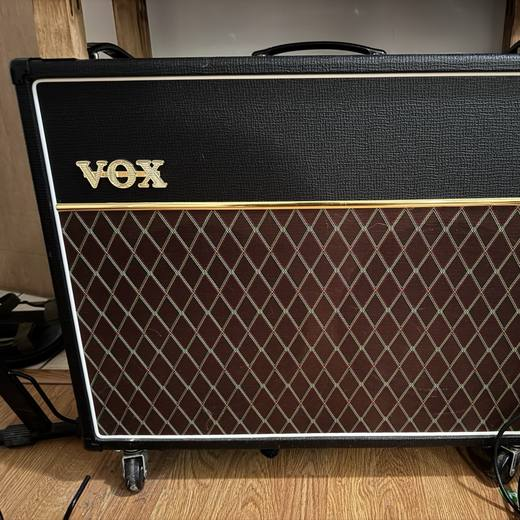
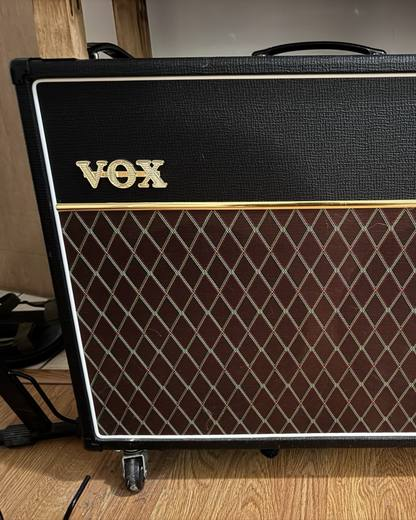
Make item card photos 4:5 portrait; re-crop amp photos

diff --git a/index.html b/index.html
@@ -77,7 +77,7 @@ h1 { font-family: var(--display); font-weight: 800; font-size: clamp(2.4rem, 7vw
 .grid { display: grid; grid-template-columns: repeat(auto-fill, minmax(min(100%, 250px), 1fr)); gap: 18px; }
 
 .item { background: var(--surface); border: 1px solid var(--line); border-radius: 10px; overflow: hidden; display: flex; flex-direction: column; min-width: 0; }
-.photo { position: relative; display: block; aspect-ratio: 1; max-width: 100%; background: var(--chip); }
+.photo { position: relative; display: block; aspect-ratio: 4 / 5; max-width: 100%; background: var(--chip); }
 .photo img { width: 100%; height: 100%; object-fit: cover; display: block; transition: transform .3s ease; }
 .item:hover .photo img { transform: scale(1.03); }
 @media (prefers-reduced-motion: reduce) { .photo img { transition: none; } .item:hover .photo img { transform: none; } }
@@ -110,7 +110,7 @@ footer p { margin: 0; max-width: 60ch; }
   <div class="intro">
   <p class="eyebrow"><span class="led" aria-hidden="true"></span>Selling gear to get Max in the clear</p>
   <h1>Max's Surgery Gear Sale</h1>
-  <div class="lede"><p>A few years ago, Max came into our lives and quickly became an important member of our family. At &gt; 25 lbs, and a purr louder than a jet engine, he has many names: Pooshkin, Plumpy, Big Boy.</p><p>This summer, a small cut appeared on his foot and strangely did not heal. After seeing multiple vets, the diagnosis was an aggressive form of cancer and the only treatment is to amputate his whole leg.</p><p>Of course, this is extremely expensive. With my current financial situation I don&#x27;t feel right asking for donations, as there are much more deserving people and causes. However, can I interest you in some music gear? Some of these items I&#x27;ve built myself, some I&#x27;m just reselling. I figure I can feed two birds with one scone here and raise a few dollars to offset the cost of this surgery and clean out some of the things in my studio.</p><p>I&#x27;d love to avoid the fees of Reverb, so if you&#x27;re interested in anything, DM me on Instagram (<a href="https://instagram.com/quirkey" target="_blank" rel="noopener">@quirkey</a>) or email me at <a href="mailto:aaron@quirkey.com">aaron@quirkey.com</a> and we can arrange payment through Venmo or paypal.</p><p>If you&#x27;re local to Kingston, I&#x27;m happy to set up pickup or delivery, too!</p></div>
+  <div class="lede"><p>A few years ago, Max came into our lives and quickly became an important member of our family. At &gt; 25 lbs, and a purr louder than a jet engine, he has many names: Pooshkin, Plumpy, Big Boy.</p><p>This summer, a small cut appeared on his foot and strangely did not heal. After seeing multiple vets, the diagnosis was an aggressive form of cancer and the only treatment is to amputate his whole leg.</p><p>Of course, this is extremely expensive. With my current financial situation I don&#x27;t feel right asking for donations, as there are much more deserving people and causes. However, can I interest you in some music gear? Some of these items I&#x27;ve built myself, some I&#x27;m just reselling. I figure I can feed two birds with one scone here and raise a few dollars to offset the cost of this surgery and clean out some of the things in my studio.</p><p>I&#x27;d love to avoid the fees of Reverb, so if you&#x27;re interested in anything, DM me on Instagram (<a href="https://instagram.com/quirkey" target="_blank" rel="noopener">@quirkey</a>) or email me at <a href="mailto:aaron@quirkey.com">aaron@quirkey.com</a> and we can arrange payment through Venmo or paypal.</p><p>Also happy to take commissions for new guitars and pedals.</p><p>If you&#x27;re local to Kingston, I&#x27;m happy to set up pickup or delivery, too.</p></div>
   <ul class="stats">
     <li>Ships from Kingston, NY</li>
     <li><a href="https://reverb.com/shop/quint-guitars" target="_blank" rel="noopener">Full shop on Reverb &#8599;</a></li>
@@ -132,7 +132,7 @@ footer p { margin: 0; max-width: 60ch; }
     </header>
     <div class="grid">
       <article class="item">
-        <a class="photo" href="https://quintguitars.com/guitars/jazzcaster-03/" target="_blank" rel="noopener" aria-label="Jazzcaster #03, Black over Sunburst on quintguitars.com"><img src="img/jazzcaster03.jpg?v=ea7ea2d8" alt="Jazzcaster #03, Black over Sunburst" loading="lazy" width="520" height="520"></a>
+        <a class="photo" href="https://quintguitars.com/guitars/jazzcaster-03/" target="_blank" rel="noopener" aria-label="Jazzcaster #03, Black over Sunburst on quintguitars.com"><img src="img/jazzcaster03.jpg?v=ea7ea2d8" alt="Jazzcaster #03, Black over Sunburst" loading="lazy" width="416" height="520"></a>
         <div class="body">
           <div class="row"><h3>Jazzcaster #03, Black over Sunburst</h3><p class="price">$1,200</p></div>
           <p class="desc">Relic&#x27;d black-over-sunburst nitro finish with Gemini Suprocaster and goldfoil pickups.</p>
@@ -141,7 +141,7 @@ footer p { margin: 0; max-width: 60ch; }
         </div>
       </article>
       <article class="item">
-        <a class="photo" href="https://reverb.com/item/81891009-quint-guitars-esquire-04-2023-daphne-blue" target="_blank" rel="noopener" aria-label="Esquire #04, Daphne Blue on Reverb"><img src="img/esquire.jpg?v=da5b889a" alt="Esquire #04, Daphne Blue" loading="lazy" width="520" height="520"></a>
+        <a class="photo" href="https://reverb.com/item/81891009-quint-guitars-esquire-04-2023-daphne-blue" target="_blank" rel="noopener" aria-label="Esquire #04, Daphne Blue on Reverb"><img src="img/esquire.jpg?v=da5b889a" alt="Esquire #04, Daphne Blue" loading="lazy" width="416" height="520"></a>
         <div class="body">
           <div class="row"><h3>Esquire #04, Daphne Blue</h3><p class="price">$900</p></div>
           <p class="desc">The first Quint partscaster I put up for sale, built with premium parts and a full setup.</p>
@@ -150,7 +150,7 @@ footer p { margin: 0; max-width: 60ch; }
         </div>
       </article>
       <article class="item">
-        <a class="photo" href="https://reverb.com/item/91230133-quint-guitars-07-jazzcaster-fiesta-red" target="_blank" rel="noopener" aria-label="Jazzcaster #07, Fiesta Red on Reverb"><img src="img/jazzcaster.jpg?v=45e9303d" alt="Jazzcaster #07, Fiesta Red" loading="lazy" width="520" height="520"></a>
+        <a class="photo" href="https://reverb.com/item/91230133-quint-guitars-07-jazzcaster-fiesta-red" target="_blank" rel="noopener" aria-label="Jazzcaster #07, Fiesta Red on Reverb"><img src="img/jazzcaster.jpg?v=45e9303d" alt="Jazzcaster #07, Fiesta Red" loading="lazy" width="416" height="520"></a>
         <div class="body">
           <div class="row"><h3>Jazzcaster #07, Fiesta Red</h3><p class="price">$825</p></div>
           <p class="desc">A hand-finished partscaster with premium parts and a full setup.</p>
@@ -159,7 +159,7 @@ footer p { margin: 0; max-width: 60ch; }
         </div>
       </article>
       <article class="item">
-        <div class="photo"><img src="img/american-strat.jpg?v=dc54cc6c" alt="Fender American Performer Strat" loading="lazy" width="520" height="520"></div>
+        <div class="photo"><img src="img/american-strat.jpg?v=dc54cc6c" alt="Fender American Performer Strat" loading="lazy" width="416" height="520"></div>
         <div class="body">
           <div class="row"><h3>Fender American Performer Strat</h3><p class="price">$700</p></div>
           <p class="desc">A US-made Strat in black with a maple neck and Fender&#x27;s Tex-Mex single-coils. Great condition with a nice neck and classic sound.</p>
@@ -168,7 +168,7 @@ footer p { margin: 0; max-width: 60ch; }
         </div>
       </article>
       <article class="item">
-        <div class="photo"><img src="img/lp-jr.jpg?v=09e1ac2d" alt="Epiphone Les Paul Junior" loading="lazy" width="520" height="520"></div>
+        <div class="photo"><img src="img/lp-jr.jpg?v=09e1ac2d" alt="Epiphone Les Paul Junior" loading="lazy" width="416" height="520"></div>
         <div class="body">
           <div class="row"><h3>Epiphone Les Paul Junior</h3><p class="price">$250</p></div>
           <p class="desc">A no-frills single-pickup slab body in vintage sunburst. Stock parts but feels great. SUPER hot humbucker pickup (~11K!)</p>
@@ -184,7 +184,7 @@ footer p { margin: 0; max-width: 60ch; }
     </header>
     <div class="grid">
       <article class="item">
-        <div class="photo"><img src="img/vox-ac30.jpg?v=fbb70be0" alt="Vox AC30" loading="lazy" width="520" height="520"></div>
+        <div class="photo"><img src="img/vox-ac30.jpg?v=073f7dbe" alt="Vox AC30" loading="lazy" width="416" height="520"></div>
         <div class="body">
           <div class="row"><h3>Vox AC30</h3><p class="price">$400</p></div>
           <p class="desc">Classic 30-watt British combo. I bought this already modified. The reverb tank has been removed and casters were added.</p>
@@ -193,7 +193,7 @@ footer p { margin: 0; max-width: 60ch; }
         </div>
       </article>
       <article class="item">
-        <div class="photo"><img src="img/fender-hrd.jpg?v=8bfcb2c1" alt="Fender Hot Rod Deluxe" loading="lazy" width="520" height="520"></div>
+        <div class="photo"><img src="img/fender-hrd.jpg?v=3653b1dd" alt="Fender Hot Rod Deluxe" loading="lazy" width="416" height="520"></div>
         <div class="body">
           <div class="row"><h3>Fender Hot Rod Deluxe</h3><p class="price">$300</p></div>
           <p class="desc">A 40-watt all-tube combo with clean, drive and more-drive channels plus spring reverb. Very very loud. Comes with a simple attenuator knob to allow for playing at home volumes.</p>
@@ -209,7 +209,7 @@ footer p { margin: 0; max-width: 60ch; }
     </header>
     <div class="grid">
       <article class="item">
-        <a class="photo" href="https://reverb.com/item/97549430-quint-guitars-drive-trem-2026-black-woodgrain" target="_blank" rel="noopener" aria-label="Drive Trem on Reverb"><img src="img/drivetrem.jpg?v=e7cca019" alt="Drive Trem" loading="lazy" width="520" height="520"><span class="badge">Original design</span></a>
+        <a class="photo" href="https://reverb.com/item/97549430-quint-guitars-drive-trem-2026-black-woodgrain" target="_blank" rel="noopener" aria-label="Drive Trem on Reverb"><img src="img/drivetrem.jpg?v=e7cca019" alt="Drive Trem" loading="lazy" width="416" height="520"><span class="badge">Original design</span></a>
         <div class="body">
           <div class="row"><h3>Drive Trem</h3><p class="price">$175</p></div>
           <p class="desc">My own design: a JFET overdrive and a tremolo in one enclosure.</p>
@@ -218,7 +218,7 @@ footer p { margin: 0; max-width: 60ch; }
         </div>
       </article>
       <article class="item">
-        <a class="photo" href="https://reverb.com/item/99865222-quint-guitars-clone-lab-data-corrupter" target="_blank" rel="noopener" aria-label="Data Corrupter on Reverb"><img src="img/datacorrupter.jpg?v=54607f15" alt="Data Corrupter" loading="lazy" width="520" height="520"></a>
+        <a class="photo" href="https://reverb.com/item/99865222-quint-guitars-clone-lab-data-corrupter" target="_blank" rel="noopener" aria-label="Data Corrupter on Reverb"><img src="img/datacorrupter.jpg?v=54607f15" alt="Data Corrupter" loading="lazy" width="416" height="520"></a>
         <div class="body">
           <div class="row"><h3>Data Corrupter</h3><p class="price">$175</p></div>
           <p class="desc">Clone of the EQD Data Corrupter, a PLL square-wave fuzz that tracks into synth chaos.</p>
@@ -227,7 +227,7 @@ footer p { margin: 0; max-width: 60ch; }
         </div>
       </article>
       <article class="item">
-        <a class="photo" href="https://reverb.com/item/99863494-quint-guitars-clone-lab-riptide" target="_blank" rel="noopener" aria-label="Riptide on Reverb"><img src="img/riptide.jpg?v=e5d6c412" alt="Riptide" loading="lazy" width="520" height="520"></a>
+        <a class="photo" href="https://reverb.com/item/99863494-quint-guitars-clone-lab-riptide" target="_blank" rel="noopener" aria-label="Riptide on Reverb"><img src="img/riptide.jpg?v=e5d6c412" alt="Riptide" loading="lazy" width="416" height="520"></a>
         <div class="body">
           <div class="row"><h3>Riptide</h3><p class="price">$175</p></div>
           <p class="desc">Clone of the Scientific Guitarist Riptide, with a real Accutronics spring tank inside.</p>
@@ -236,7 +236,7 @@ footer p { margin: 0; max-width: 60ch; }
         </div>
       </article>
       <article class="item">
-        <a class="photo" href="https://reverb.com/item/99862807-quint-guitars-clone-lab-organizer" target="_blank" rel="noopener" aria-label="Organizer on Reverb"><img src="img/organizer.jpg?v=1cb15846" alt="Organizer" loading="lazy" width="520" height="520"></a>
+        <a class="photo" href="https://reverb.com/item/99862807-quint-guitars-clone-lab-organizer" target="_blank" rel="noopener" aria-label="Organizer on Reverb"><img src="img/organizer.jpg?v=1cb15846" alt="Organizer" loading="lazy" width="416" height="520"></a>
         <div class="body">
           <div class="row"><h3>Organizer</h3><p class="price">$120</p></div>
           <p class="desc">Clone of the EQD Organizer, an FV-1 organ emulator with pitch-shifted voices.</p>
@@ -245,7 +245,7 @@ footer p { margin: 0; max-width: 60ch; }
         </div>
       </article>
       <article class="item">
-        <a class="photo" href="https://reverb.com/item/99862711-quint-guitars-clone-lab-warlow" target="_blank" rel="noopener" aria-label="Warlow on Reverb"><img src="img/warlow.jpg?v=e53e7f1d" alt="Warlow" loading="lazy" width="520" height="520"></a>
+        <a class="photo" href="https://reverb.com/item/99862711-quint-guitars-clone-lab-warlow" target="_blank" rel="noopener" aria-label="Warlow on Reverb"><img src="img/warlow.jpg?v=e53e7f1d" alt="Warlow" loading="lazy" width="416" height="520"></a>
         <div class="body">
           <div class="row"><h3>Warlow</h3><p class="price">$120</p></div>
           <p class="desc">Clone of the JPTR FX Warlow: an op-amp Big Muff with extra gain and a 3-way tone switch.</p>
@@ -254,7 +254,7 @@ footer p { margin: 0; max-width: 60ch; }
         </div>
       </article>
       <article class="item">
-        <a class="photo" href="https://reverb.com/item/99862890-quint-guitars-clone-lab-fuzz-bender" target="_blank" rel="noopener" aria-label="Fuzz Bender on Reverb"><img src="img/fuzzbender.jpg?v=6b9b4f5b" alt="Fuzz Bender" loading="lazy" width="520" height="520"></a>
+        <a class="photo" href="https://reverb.com/item/99862890-quint-guitars-clone-lab-fuzz-bender" target="_blank" rel="noopener" aria-label="Fuzz Bender on Reverb"><img src="img/fuzzbender.jpg?v=6b9b4f5b" alt="Fuzz Bender" loading="lazy" width="416" height="520"></a>
         <div class="body">
           <div class="row"><h3>Fuzz Bender</h3><p class="price">$100</p></div>
           <p class="desc">Clone of the Keeley Fuzz Bender, a Tone Bender circuit mixing silicon and germanium.</p>
@@ -263,7 +263,7 @@ footer p { margin: 0; max-width: 60ch; }
         </div>
       </article>
       <article class="item">
-        <a class="photo" href="https://reverb.com/item/99868106-quint-guitars-clone-lab-prince-of-tone" target="_blank" rel="noopener" aria-label="Prince of Tone on Reverb"><img src="img/prince.jpg?v=d217eb04" alt="Prince of Tone" loading="lazy" width="520" height="520"></a>
+        <a class="photo" href="https://reverb.com/item/99868106-quint-guitars-clone-lab-prince-of-tone" target="_blank" rel="noopener" aria-label="Prince of Tone on Reverb"><img src="img/prince.jpg?v=d217eb04" alt="Prince of Tone" loading="lazy" width="416" height="520"></a>
         <div class="body">
           <div class="row"><h3>Prince of Tone</h3><p class="price">$90</p></div>
           <p class="desc">Clone of the Analogman Prince of Tone, with a 3-way gain switch in a compact 1590B.</p>
@@ -272,7 +272,7 @@ footer p { margin: 0; max-width: 60ch; }
         </div>
       </article>
       <article class="item">
-        <a class="photo" href="https://reverb.com/item/94491814-quint-guitars-clone-lab-breakup" target="_blank" rel="noopener" aria-label="Breakup on Reverb"><img src="img/breakup.jpg?v=7c05527c" alt="Breakup" loading="lazy" width="520" height="520"></a>
+        <a class="photo" href="https://reverb.com/item/94491814-quint-guitars-clone-lab-breakup" target="_blank" rel="noopener" aria-label="Breakup on Reverb"><img src="img/breakup.jpg?v=7c05527c" alt="Breakup" loading="lazy" width="416" height="520"></a>
         <div class="body">
           <div class="row"><h3>Breakup</h3><p class="price">$90</p></div>
           <p class="desc">Clone of the Danelectro Breakdown, with a smooth pot in place of the rotary switch.</p>
@@ -281,7 +281,7 @@ footer p { margin: 0; max-width: 60ch; }
         </div>
       </article>
       <article class="item">
-        <a class="photo" href="https://reverb.com/item/99862655-quint-guitars-clone-lab-levitation" target="_blank" rel="noopener" aria-label="Levitation on Reverb"><img src="img/levitation.jpg?v=bf38acf2" alt="Levitation" loading="lazy" width="520" height="520"></a>
+        <a class="photo" href="https://reverb.com/item/99862655-quint-guitars-clone-lab-levitation" target="_blank" rel="noopener" aria-label="Levitation on Reverb"><img src="img/levitation.jpg?v=bf38acf2" alt="Levitation" loading="lazy" width="416" height="520"></a>
         <div class="body">
           <div class="row"><h3>Levitation</h3><p class="price">$90</p></div>
           <p class="desc">Clone of the EQD Levitation, an ambient reverb built on the Belton brick.</p>

diff --git a/template.html b/template.html
@@ -77,7 +77,7 @@ h1 { font-family: var(--display); font-weight: 800; font-size: clamp(2.4rem, 7vw
 .grid { display: grid; grid-template-columns: repeat(auto-fill, minmax(min(100%, 250px), 1fr)); gap: 18px; }
 
 .item { background: var(--surface); border: 1px solid var(--line); border-radius: 10px; overflow: hidden; display: flex; flex-direction: column; min-width: 0; }
-.photo { position: relative; display: block; aspect-ratio: 1; max-width: 100%; background: var(--chip); }
+.photo { position: relative; display: block; aspect-ratio: 4 / 5; max-width: 100%; background: var(--chip); }
 .photo img { width: 100%; height: 100%; object-fit: cover; display: block; transition: transform .3s ease; }
 .item:hover .photo img { transform: scale(1.03); }
 @media (prefers-reduced-motion: reduce) { .photo img { transition: none; } .item:hover .photo img { transform: none; } }

diff --git a/build.py b/build.py
@@ -109,7 +109,7 @@ count = sum(len(s['items']) + len(extras(s)) for s in sections)
 def card(it):
     name = it['name']
     badge = '<span class="badge">Original design</span>' if it.get('original') else ''
-    img = f'<img src="{photos[it['photo']]}" alt="{e(name)}" loading="lazy" width="520" height="520">{badge}'
+    img = f'<img src="{photos[it['photo']]}" alt="{e(name)}" loading="lazy" width="416" height="520">{badge}'
     if it.get('reverb') or it.get('url'):
         href = R + it['reverb'] if it.get('reverb') else it['url']
         site = 'Reverb' if it.get('reverb') else re.sub(r'^www\.', '', re.sub(r'^\w+://', '', href).split('/')[0])

diff --git a/CLAUDE.md b/CLAUDE.md
@@ -20,7 +20,7 @@ A one-page static site listing gear from Aaron's Quint Guitars Reverb shop (http
 GitHub Pages from the `main` branch root of https://github.com/quirkey/max-gear-sale. Live at https://quirkey.github.io/max-gear-sale/. To update: edit `items.yaml`, `python3 build.py`, commit, `git push`. Pages rebuilds in about a minute.
 
 ## Content decisions (from Aaron)
-- Categories: Guitars, Amps, Pedals. (Amps added 2026-10-09: Vox AC30 $400 and Fender Hot Rod Deluxe $300, photos from `~/Downloads/vox-ac-30.jpeg` (square crop, shifted left so the logo isn't clipped) and `fender-amp-front.jpeg`. Neither is listed anywhere, so their buttons email Aaron.) (The Pedal-building tools section, 3 drill templates, was removed on 2026-10-02 at Aaron's request; their photos were deleted on 2026-10-09 and are in git history if needed.) Each card has a photo, name, price, a one-line description, effect-type tags and a link.
+- Categories: Guitars, Amps, Pedals. (Amps added 2026-10-09: Vox AC30 $400 and Fender Hot Rod Deluxe $300, photos from `~/Downloads/vox-ac-30.jpeg` (4:5 portrait crop `--crop 40,0,808,960`, shifted left so the logo isn't clipped) and `fender-amp-front.jpeg` (center portrait crop `--crop 256,0,1024,960`). Neither is listed anywhere, so their buttons email Aaron.) (The Pedal-building tools section, 3 drill templates, was removed on 2026-10-02 at Aaron's request; their photos were deleted on 2026-10-09 and are in git history if needed.) Each card has a photo, name, price, a one-line description, effect-type tags and a link.
 - No condition tags (Brand New, Excellent, etc.). The condition field is still in the data but isn't rendered.
 - The link text is "More info on Reverb", not "Buy on Reverb".
 - Within Pedals, the Drive Trem (Aaron's original design) comes first. The rest are "Clone Lab" builds: part-for-part clones on PedalPCB boards.
@@ -28,6 +28,7 @@ GitHub Pages from the `main` branch root of https://github.com/quirkey/max-gear-
 ## Design
 - Look: powder-coated enclosure grey with a pilot-LED amber accent. Light and dark themes are both defined as CSS tokens in `:root`, with a `prefers-color-scheme` block and `[data-theme]` overrides.
 - Fonts (Google Fonts): Bricolage Grotesque for display, Atkinson Hyperlegible for body text, JetBrains Mono for labels and prices.
+- Item cards use 4:5 portrait photos (`.photo` aspect-ratio), cropped with object-fit: cover. Re-crop landscape photos to portrait with `add_photo.py --crop`.
 - Header with a stats line (location, shop link; item counts and the total $ are deliberately not shown, per Aaron, in the header or on the category tabs), then a sticky category rail and a responsive card grid.
 
 ## Data sources
